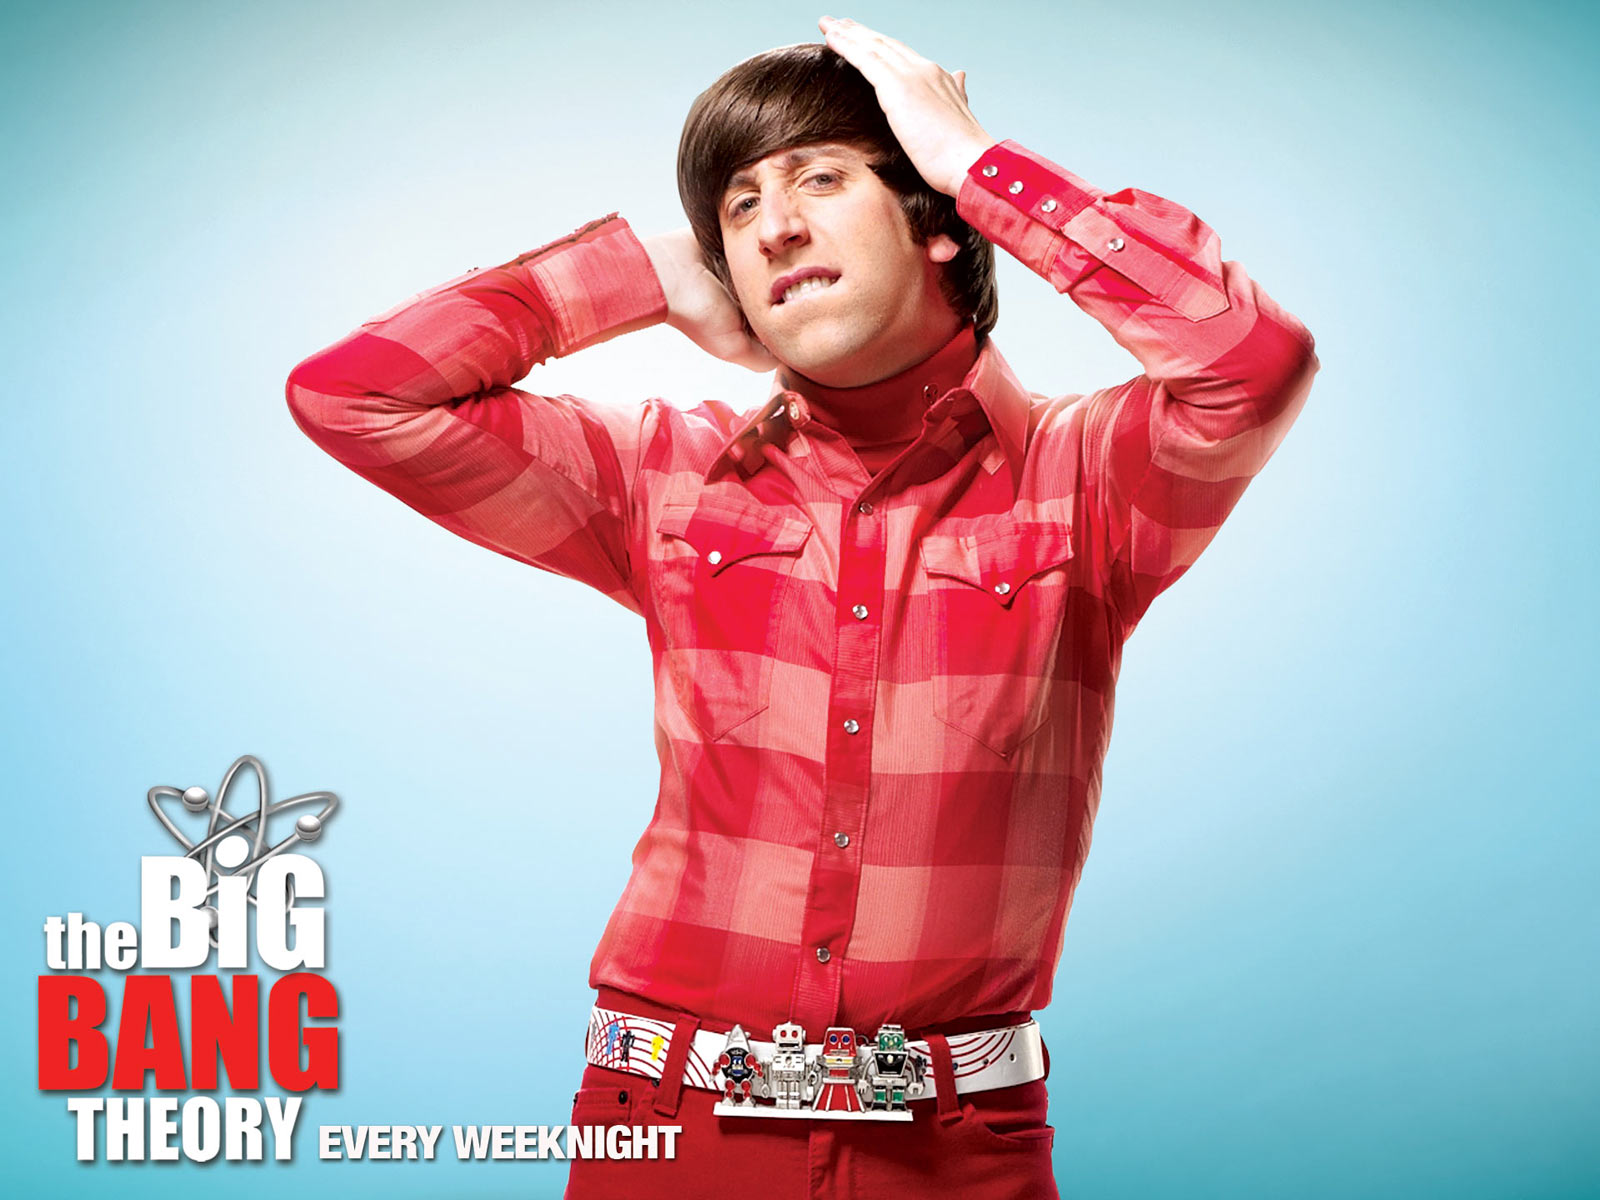
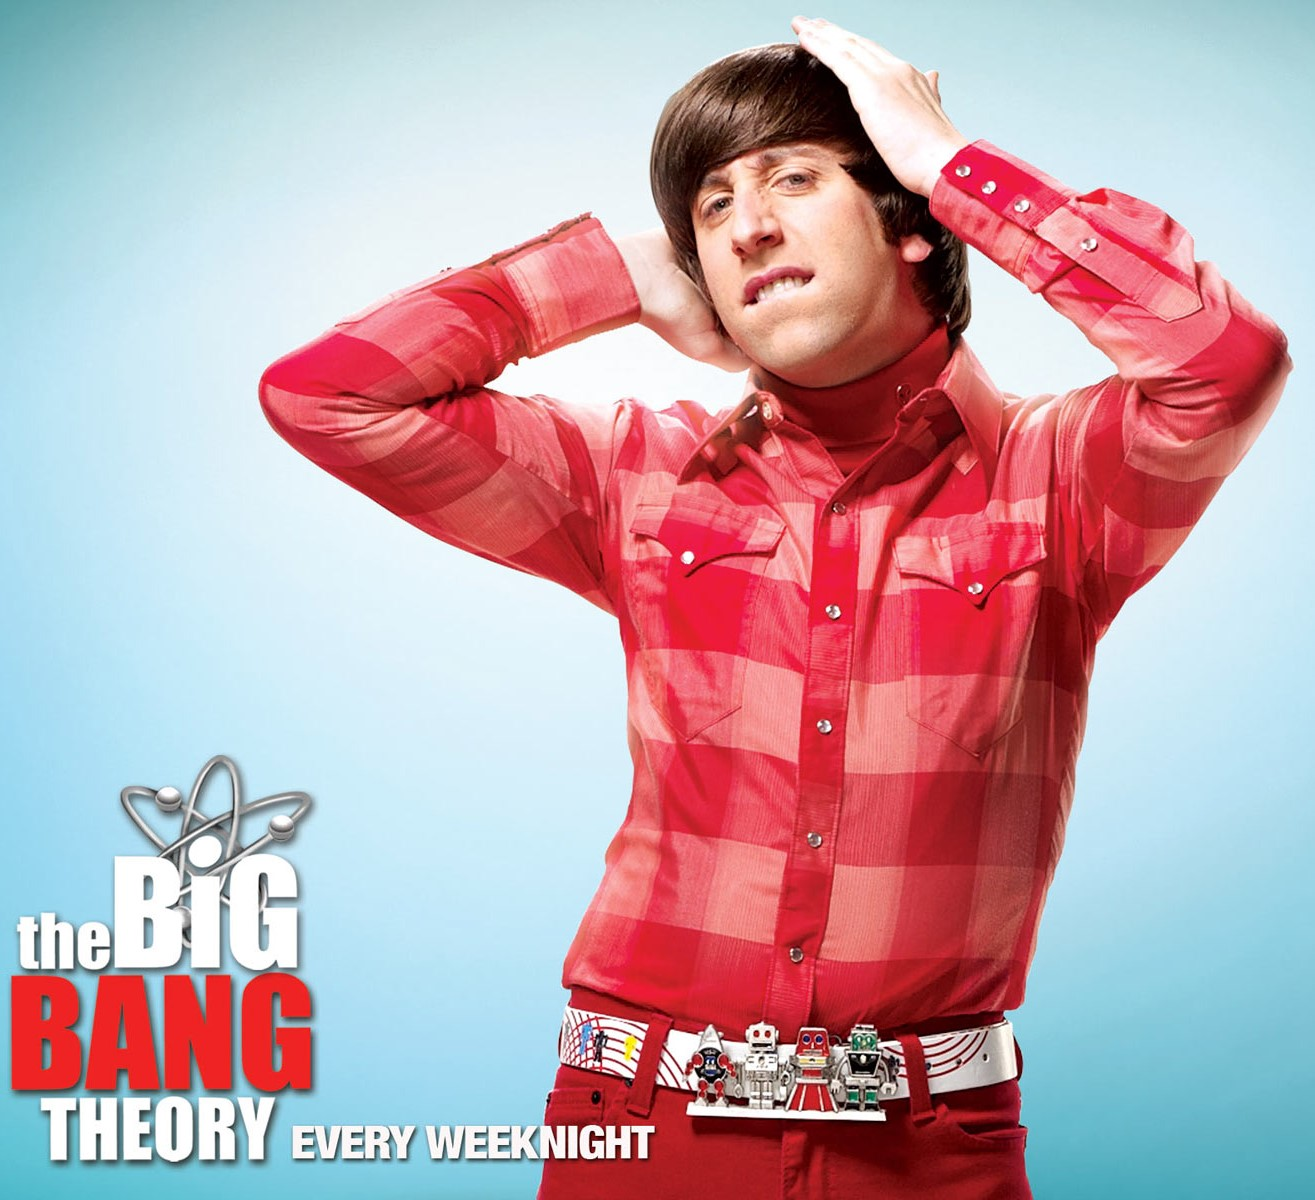
Trocando imagens
Neste comit troquei a imagem do sheldon que tinha diminuido o tamanho no comit anterior pela original novamente

diff --git a/style.css b/style.css
@@ -19,7 +19,7 @@ body{
 main{
     display: flex;
     width: 90%;
-    height: 75%;
+    height: 85%;
     justify-content: center;
     align-items: center;
     position: relative;
@@ -50,7 +50,7 @@ ul{
 }
 
 .slider .slide:nth-child(1){
-    background: url(images/sheldon.webp);
+    background: url(images/260j6ka1imzto0kp7juhiirdz.webp);
     background-size: cover;
     background-repeat: no-repeat;
     background-position: left;
@@ -84,7 +84,7 @@ ul{
 }
 
 .slider .slide:hover{
-    width: 80%;
-    transform: scale(1.1);
+    width: 95%;
+    transform: scale(1.05);
     cursor: pointer;
 }
